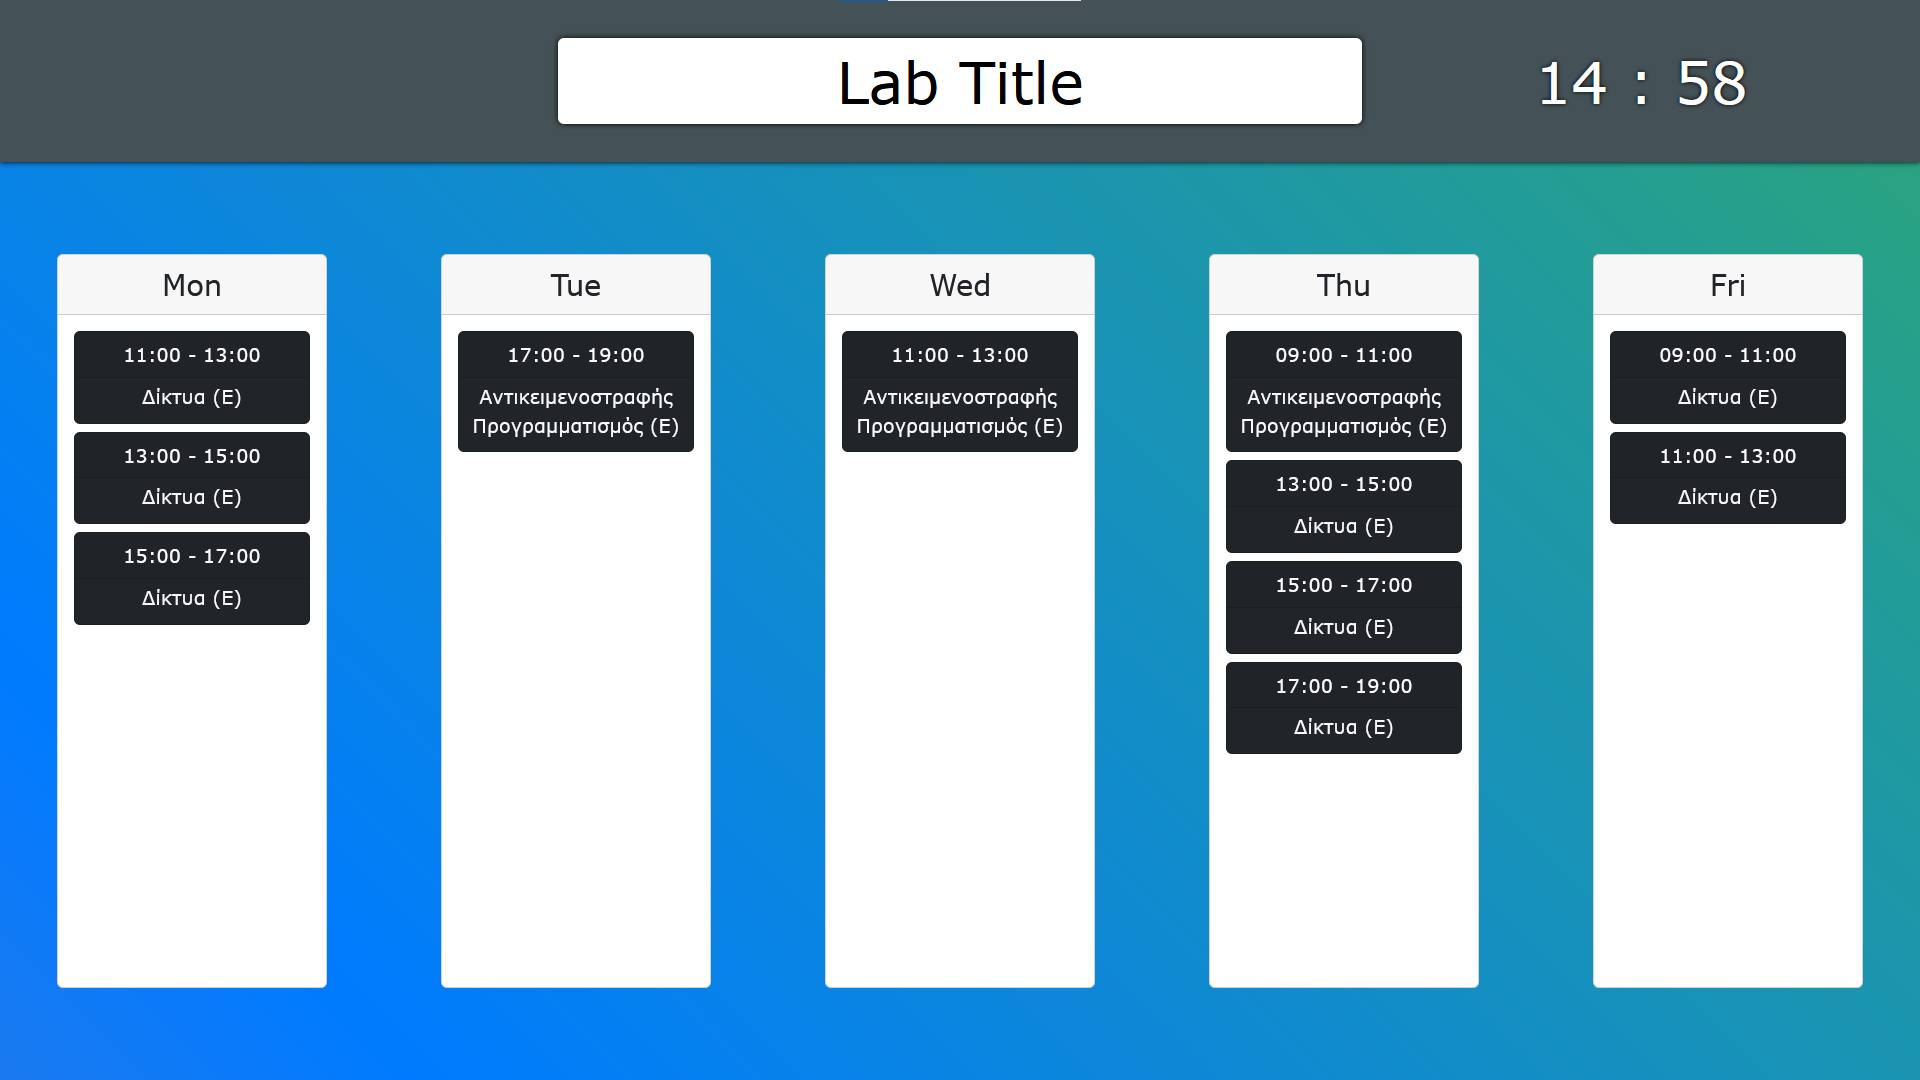
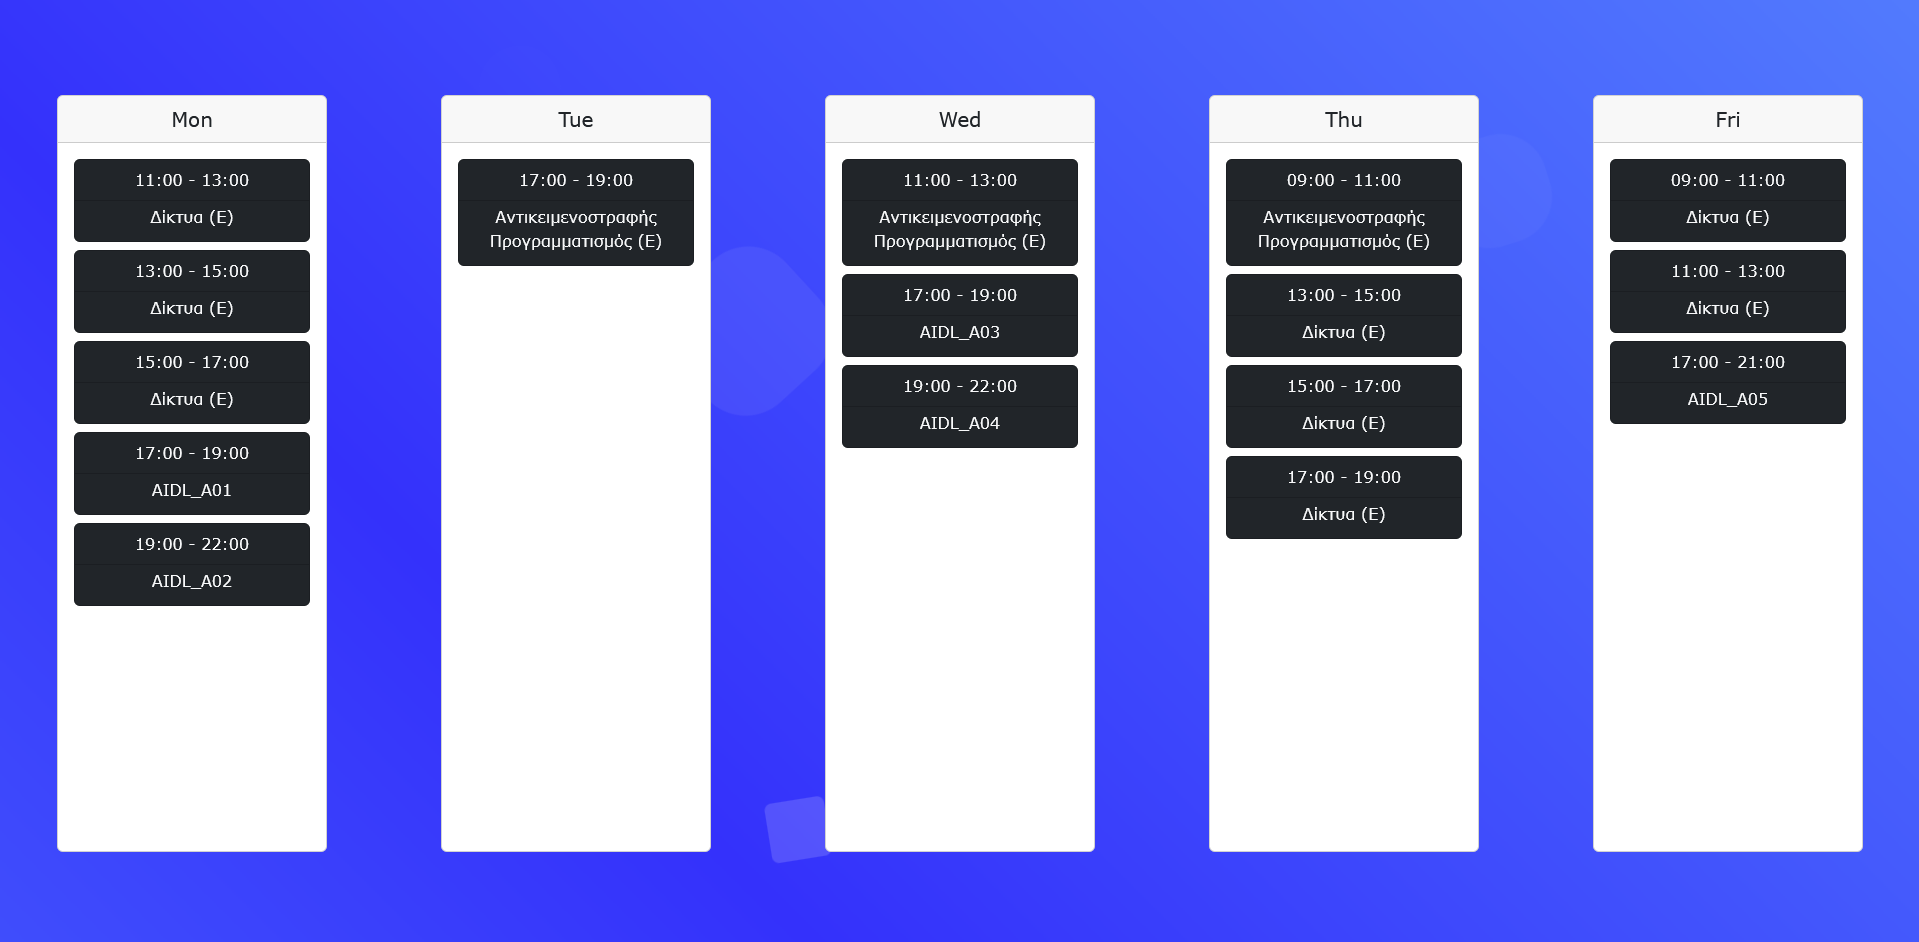
add: new readme and preview

diff --git a/index.html b/index.html
@@ -2,7 +2,6 @@
 <html lang="en">
   <head>
     <meta charset="UTF-8" />
-    <link rel="icon" type="image/svg+xml" href="/vite.svg" />
     <meta name="viewport" content="width=device-width, initial-scale=1.0" />
     <title>LabPortal</title>
   </head>

diff --git a/README.md b/README.md
@@ -1,64 +1,36 @@
-## Lab-Schedule
+## LabPortal
 
-Lab-Schedule is a web app created to showcase the weekly schedule of ZB109 Consert
-lab in UniWA, Greece. The current repository of the web-app includes the node.js back-end
-that serves a react build folder for its front-end.
+LabPortal is a React js web app created that showcases the weekly schedule and multiple pictures
+about a university lab. It is meant to be placed on monitors outsite the labs to display any info
+needed.
 
-## Prerequisites
+Checkout out the demo [here](https://vaggm.github.io/LabPortal/)!
 
-Have node.js and npm installed.
+**The project doesn't have to be installed!** It can be configured and run as a github automatically
+based on the workflow provided.
 
-The following versions were used when creating the app:
+## Create your own LabPortal!
 
-- node.js v18.12.1
-- npm 8.19.2
+To create your own copy of this website you just have to fork this repository and set your own configurations!
+The workflow will make sure to load your configuration and set the app running.
 
+The [config directory](./config/) contains the following:
+- a weekly schedule file named [schedule.xlsx](./config/schedule.xlsx), with all the lab classes throughout the week
+- a set of images to display within the [/config/images/](./config/images/) directory
+- a set of display configurations
 
-## Installing the app
+Once a new push is done on the main branch, any updates on these files will be passed to the github page
+which will be available at:
 
-Follow these steps on a terminal window to install the app:
-
-- clone this repository to your machine
-
-```bash
-git clone https://github.com/VaggM/lab-schedule.git
 ```
-
-- cd to the repository folder
-
-```bash
-cd lab-schedule
+https://{GITHUB_USERNAME}.github.io/LabPortal/
 ```
-
-- install npm packages
-
-```bash
-npm install
-```
-
-## Running the app
-
-Before running the app you need to createa .env file to define the absolute 
-data folder path to it based on the [sample](.envsample). The file might 
-include an APP_PORT or else port 8000 is used by default.
-
-An example data folder can be found [here](./showcasing/data-example/). 
-Data is read every 10 minutes or when someone taps the update button in the 
-settings menu. The settings menu appears when someone taps the screen.
-
-To run the app open a terminal on the repository folder and run:
-
-```bash
-node app.js
-```
-
-The app can now be accessed through any browser on [http://localhost:8080](http://localhost:8080).
 
 ## Features
 
 This web-app showcases a weekly schedule by swapping between a daily display,
 a weekly display and some loaded images. Swaps happen every few seconds based 
-on a timer. App settings and images are set through a data folder on your machine.
+on a timer from the configurations.
 
 Daily display:
 
@@ -74,9 +46,7 @@ Weekly display:
 ![Weekly display](./showcasing/screenshots/weeklydisplay.png)
 
 The schedule is read from an excel file of the following format.
-(the excel read happens in the back-end and the classes are provided
-through an API, by changing the classes provided in that API url
-the front-end will fetch that data instead)
+(the excel read happens from the [corresponding automation file](./automation-scripts/excelToObject.js) in the workflow)
 
 > Every cell that has multiple lines writter is considered a class.
 >
@@ -90,12 +60,11 @@ the front-end will fetch that data instead)
 > The column of the cells represents the day of the class
 > (columnes B to G are converted to Monday throuh Saturday).
 
-The schedule should be saved in the data folder as "schedule.xlsx.". Check an example file [here](./showcasing/data-example/schedule.xlsx).
-The app will try to read it every time the Update button is triggered.
+The schedule should be saved in the configurations directory. Check the example file [here](./config/schedule.xlsx).
 
 Image display:
 
-- show each image saved in a folder "images" within the data folder
+- show each image from the corresponding config directory
 
 ![Image display](./showcasing/screenshots/imagedisplay.png)
 
@@ -104,17 +73,14 @@ It accepts .png, .jpg, .jpeg and .gif.
 
 ## App Settings
 
-The app can be modified through a settings.json file in the data folder.
-An example settings file can be found [here](./showcasing/data-example/settings.json).
-Settings are read every 10 minutes or when someone taps the update button 
-in the settings menu. The settings menu appears when someone taps the screen.
+The app can be modified through a settings.json file in the configurations folder.
+An example settings file can be found [here](./config/settings.json).
 
 | Setting Name | Description |
 | --- | --- |
-| labname | title on the top side of the app |
 | dailysplit | split limit for showcases classes on daily display |
 | weeklysplit | split limit for showcases classes on weekly display |
-| time | swap timer between displays |
+| time | swap timer between displays or images |
 
 ## Known Issues
 
@@ -124,4 +90,5 @@ get on top of each other.
 
 ## Future plans
 
-Remove daily and weekly displays if no schedule.xlsx is provided.
+1) Mobile compatibility
+2) Optional display of weekly schedule
